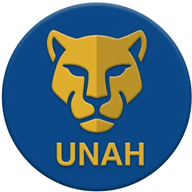
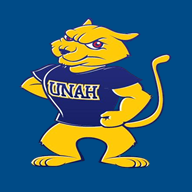
feat: actualizar iconos PWA con mascota puma UNAH
- Reemplazar iconos PWA (192, 512, apple-touch) con puma mascota
- Agregar puma-192.png y puma-512.png con fondo azul UNAH
- Actualizar vite.config.ts e index.html para usar nuevos iconos
- Proteger formularios de enrolamiento contra usuarios ya enrolados
- Corregir logout para limpiar unah_session_active

diff --git a/frontend/vite.config.ts b/frontend/vite.config.ts
@@ -27,7 +27,7 @@ export default defineConfig({
     tailwindcss(),
     VitePWA({
       registerType: 'autoUpdate',
-      includeAssets: ['puma_unah.png', 'icon-192.png', 'icon-512.png', 'apple-touch-icon.png', 'favicon.ico'],
+      includeAssets: ['puma_unah.png', 'puma-192.png', 'puma-512.png', 'apple-touch-icon.png', 'favicon.ico'],
       manifest: {
         name: 'Conecta Pumas UNAH',
         short_name: 'ConectaPumas',
@@ -40,25 +40,25 @@ export default defineConfig({
         start_url: '/',
         icons: [
           {
-            src: '/icon-192.png',
+            src: '/puma-192.png',
             sizes: '192x192',
             type: 'image/png',
             purpose: 'any'
           },
           {
-            src: '/icon-192.png',
+            src: '/puma-192.png',
             sizes: '192x192',
             type: 'image/png',
             purpose: 'maskable'
           },
           {
-            src: '/icon-512.png',
+            src: '/puma-512.png',
             sizes: '512x512',
             type: 'image/png',
             purpose: 'any'
           },
           {
-            src: '/icon-512.png',
+            src: '/puma-512.png',
             sizes: '512x512',
             type: 'image/png',
             purpose: 'maskable'

diff --git a/frontend/index.html b/frontend/index.html
@@ -8,8 +8,8 @@
     
     <!-- Favicon & PWA Icons -->
     <link rel="icon" type="image/svg+xml" href="/puma_unah.svg" />
-    <link rel="icon" type="image/png" sizes="192x192" href="/icon-192.png" />
-    <link rel="icon" type="image/png" sizes="512x512" href="/icon-512.png" />
+    <link rel="icon" type="image/png" sizes="192x192" href="/puma-192.png" />
+    <link rel="icon" type="image/png" sizes="512x512" href="/puma-512.png" />
     <link rel="apple-touch-icon" sizes="180x180" href="/apple-touch-icon.png" />
     <link rel="manifest" href="/manifest.json" />
     <!-- Google Fonts -->
